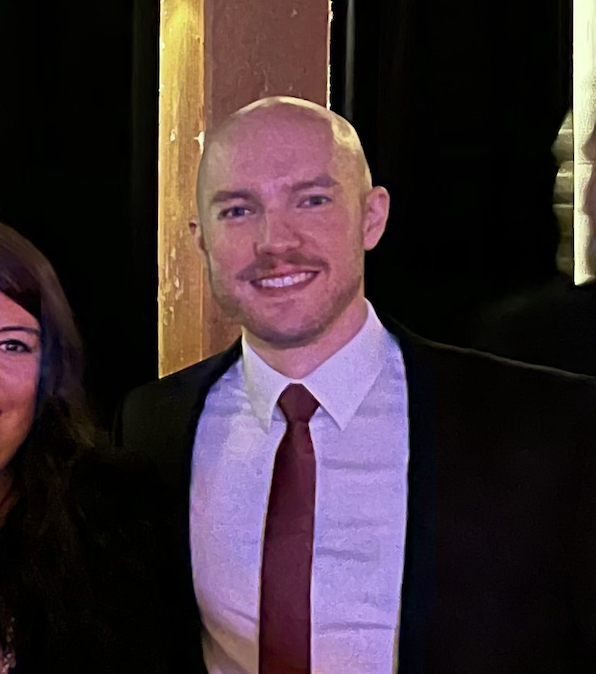
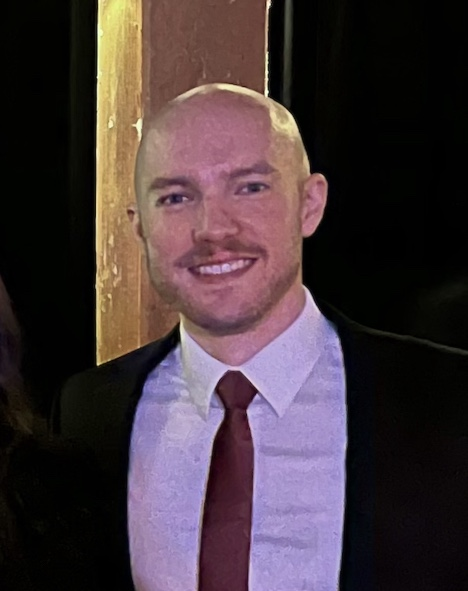
incremental updates to HTML and CSS filling in body

diff --git a/assets/css/style.css b/assets/css/style.css
@@ -1,89 +1,134 @@
 :root {
   --primary: #13293d;
-  --secondary: aqua;
-  --light-text: silver;
+  --secondary: gold;
+  --header: white;
+  --light: rgb(189, 212, 234);
+  --splash: cadetblue;
 }
 
 body {
-  display: flex;
-  flex-direction: column;
   font-family: Helvetica, sans-serif;
   line-height: 1.3;
-  background-color: azure;
+  background-color: rgb(233, 233, 233);
   width: 100%;
+  color: var(--primary);
 }
 
 nav {
   display: flex;
   justify-content: space-between;
   align-items: center;
-  padding: 20px;
+  padding: 15px;
   background-color: var(--primary);
   border-bottom: 8px double var(--secondary);
-  color: white;
 }
 
 h1 {
   font-size: 200%;
   font-weight: bold;
+  color: var(--header);
+  min-width: 320px;
 }
 
 nav ul {
   display: flex;
   justify-content: space-between;
   min-width: 400px;
-  font-size: 110%;
+  font-size: 100%;
   font-weight: bold;
 }
 
 nav a {
-  color: var(--light-text);
+  color: var(--light);
   text-decoration: none;
 }
 
 nav a:hover {
-  color: gold;
+  color: var(--header);
+  text-decoration-line: underline;
+  text-decoration: underline solid var(--splash) 50%;
+  text-underline-offset: 10px;
+}
+
+figure {
+  height: 300px;
+  width: 100%;
+  background-image: url("../images/circuit-board.jpeg");
+  background-size: cover;
+  background-position: center;
 }
 
 main {
-  display: flex;
-  flex-direction: column;
-  flex: 1 1 auto;
   max-width: 96%;
   margin: 2%;
 }
 
-main section {
-  display: flex;
-  flex-direction: column;
-  align-items: flex-start;
-  border: 5px dashed var(--secondary);
-  margin: 10px 0px 20px 0px;
-  padding: 20px;
-}
-
-main section header {
-  padding-bottom: 20px;
+main header {
+  padding: 10px;
   font-size: 120%;
   font-weight: bold;
-  text-decoration: underline;
-  color: var(--primary);
+  color: var(--header);
+  width: 100%;
+  background-color: var(--primary);
+  border-left: 3px solid var(--secondary);
+  
+}
+
+main section {
+  border: 3px dashed var(--primary);
+  margin: 10px 0px 20px 0px;
+  padding: 20px;
 }
 
 .about {
   display: flex;
   flex-direction: row;
-  justify-content: left;
+  justify-content: space-between;
 }
 
 .about img {
-  width: 200px;
+  width: 25%;
+  max-width: 250px;
   margin-right: 20px;
 }
 
-.about p {
+.work-first {
+  align-items: center;
   display: flex;
-  justify-content: space-between;
+  flex-direction: column;
+}
+
+.work-first img {
+  width: 80%;
+  align-items: center;
+  justify-content: center;
+  max-width: 1000px;
+}
+
+.work-first p {
+  display: none;
+  background-color: var(--splash);
+  padding: 20px;
+}
+
+.work-first img:hover {
+  outline: auto 30px var(--splash);
+}
+
+.work-rest {
+  display: flex;
+  align-items: center;
+  justify-content: center;
+  width: 100%;
+  flex-wrap: wrap;
+}
+
+.work-rest img {
+  width: 40%;
+  padding-left: 10px;
+  padding-top: 20px;
+  margin-right: 10px;
+  max-width: 500px;
 }
 
 .contact {
@@ -92,24 +137,34 @@ main section header {
   flex-wrap: wrap;
 }
 
+.contact img {
+  width: 25%;
+  max-width: 300px;
+  margin-right: 20px;
+}
+
 .contact p {
-    display: flex;
-    justify-content: left;
-    padding-right: 20px;
+  padding-right: 30px;
 }
 
 .contact a {
-    text-decoration: none;
-}
-
-@media screen and (max-width: 992px) {
-  .contact p {
-    width: 50%;
-  }
+  text-decoration: none;
+  color: var(--splash);
 }
 
 @media screen and (max-width: 768px) {
-  .contact p {
-    width: 50%;
+  nav {
+    display: inline-block;
+    justify-content: space-evenly;
+    align-items: center;
+    width: 100%;
+  }
+  nav ul {
+    padding-top: 15px;
+    float: left;
+    font-size: 90%;
+  }
+  figure {
+    height: 200px;
   }
 }

diff --git a/index.html b/index.html
@@ -21,29 +21,67 @@
       </nav>
     </header>
 
+    <figure></figure>
+
     <main>
+      <header>About Me</header>
       <section id="about-me">
-        <header>About Me</header>
         <article class="about">
-          <img src="./assets/images/Headshot.jpg" />
-          <p>This is who I am.</p>
+          <img
+            src="./assets/images/Headshot.jpg"
+            alt="A picture of Joe Preimesberger"
+          />
+          <p>
+            This is who I am. This is who I am. This is who I am. This is who I
+            am. This is who I am. This is who I am. This is who I am. This is
+            who I am. This is who I am. This is who I am. This is who I am. This
+            is who I am. This is who I am. This is who I am. This is who I am.
+            This is who I am. This is who I am. This is who I am. This is who I
+            am.
+          </p>
         </article>
       </section>
+
+      <header>Work</header>
       <section id="work">
-        <header>Work</header>
-        <article></article>
-      </section>
-      <section id="contact-me">
-        <header>Contact Me</header>
-        <article class="contact">
-            <p>Phone: 612-386-3245</p>
-            <p>Email: j.preimesberger@gmail.com</p>
-            <p>GitHub:<a href="https://github.com/j-preim/">My GitHub</a></p>
-            <p>LinkedIn:<a href="https://www.linkedin.com/in/joseph-preimesberger-5962802b/">My LinkedIn</a></p>
+        <article class="work-first">
+          <img
+            src="./assets/images/horiseon.png"
+            alt="Screenshot of Horiseon refactor project"
+          />
+          <p>Horiseon Refactor Project</p>
+        </article>
+
+        <article class="work-rest">
+          <img src="./assets/images/circuit-board.jpeg" alt="Circuit board" />
+          <img src="./assets/images/circuit-board.jpeg" alt="Circuit board" />
+          <img src="./assets/images/circuit-board.jpeg" alt="Circuit board" />
+          <img src="./assets/images/circuit-board.jpeg" alt="Circuit board" />
+          <img src="./assets/images/circuit-board.jpeg" alt="Circuit board" />
         </article>
       </section>
+
+      <header>Contact Me</header>
+      <section id="contact-me">
+        <article class="contact">
+          <p><strong>Phone:&nbsp;</strong>612-386-3245</p>
+          <p><strong>Email:&nbsp;</strong>j.preimesberger@gmail.com</p>
+          <p>
+            <strong>GitHub:&nbsp;</strong
+            ><a href="https://github.com/j-preim/">My GitHub</a>
+          </p>
+          <p>
+            <strong>LinkedIn:&nbsp;</strong
+            ><a
+              href="https://www.linkedin.com/in/joseph-preimesberger-5962802b/"
+              >My LinkedIn</a
+            >
+          </p>
+        </article>
+      </section>
+
+      <header>Resume</header>
       <section id="resume">
-        <header>Resume</header>
         <article></article>
       </section>
     </main>
